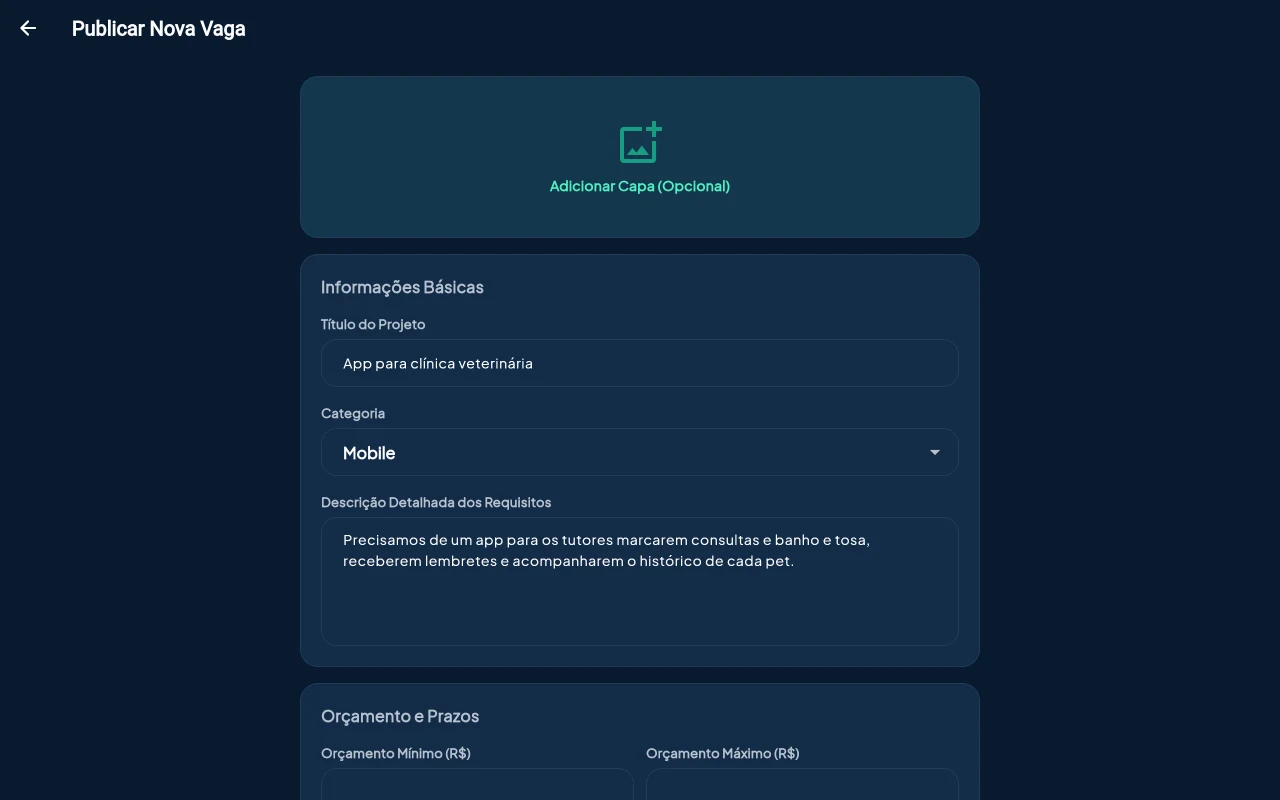
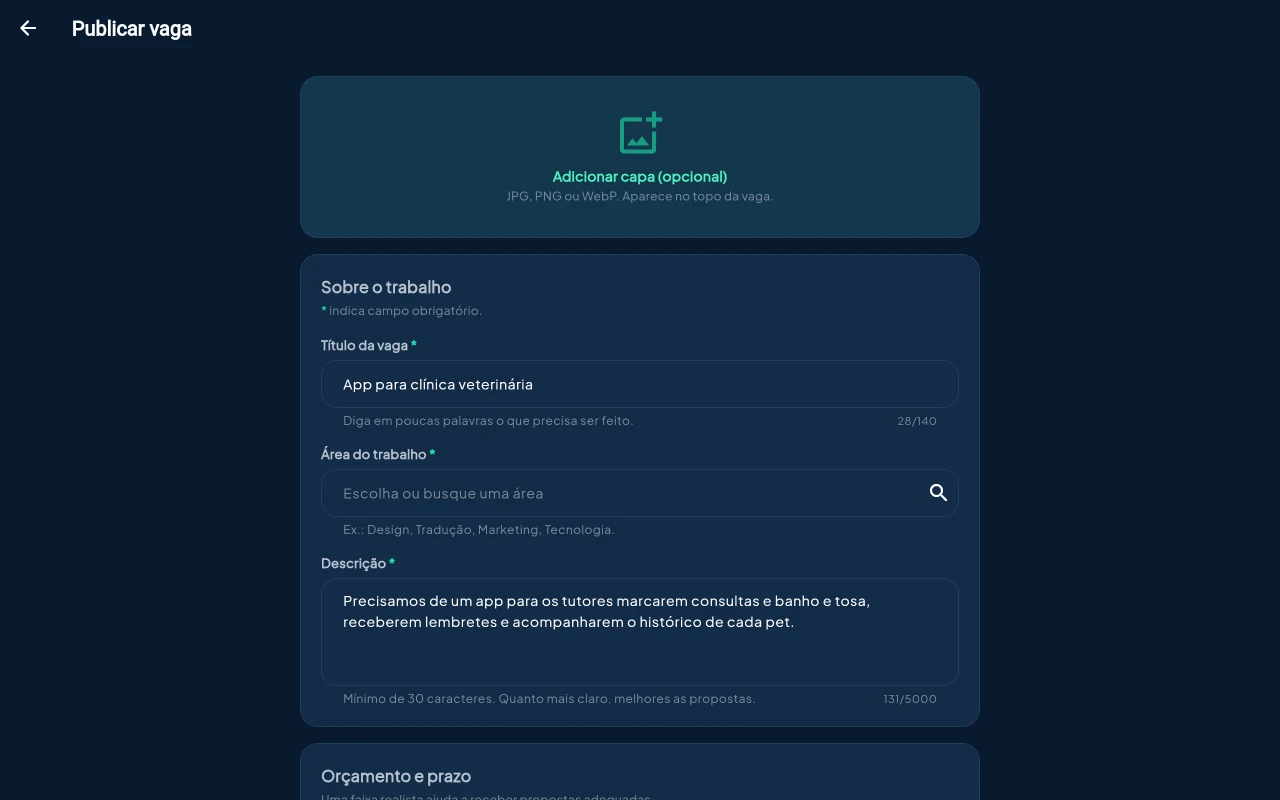
chore(release): prepare a versão 1.0.5 e atualize os prints da homepage
Prints de publicar vaga e enviar proposta voltam a sair preenchidos. O site passa a mostrar a versão de cada arquivo pelo nome, já que Android e Windows podem estar em versões diferentes na mesma release.

diff --git a/site/assets/js/site.js b/site/assets/js/site.js
@@ -447,13 +447,15 @@ async function setupDownloads() {
   } catch {
     return; // Mantém os links para a página de versões (sempre válidos).
   }
-  const version = release.tag.replace(/^v/, '');
+  // A versão de cada arquivo vem do nome (trabalhei-1.0.5.apk): Android e Windows
+  // podem estar em versões diferentes na mesma release.
+  const versionOf = (asset) => asset.name.match(/(\d+\.\d+\.\d+)/)?.[1] ?? release.tag.replace(/^v/, '');
   const find = (re) => release.assets.find((a) => re.test(a.name));
 
   const apk = find(/\.apk$/i);
   if (apk) {
     setHref('[data-download="android"]', apk.url);
-    setText('[data-android-version]', version);
+    setText('[data-android-version]', versionOf(apk));
     setText('[data-android-size]', formatSize(apk.size));
   }
 
@@ -461,7 +463,7 @@ async function setupDownloads() {
   const zip = find(/windows.*\.zip$/i);
   if (exe || zip) {
     setHref('[data-download="windows"]', (exe ?? zip).url);
-    setText('[data-windows-version]', version);
+    setText('[data-windows-version]', versionOf(exe ?? zip));
     setText('[data-windows-size]', formatSize((exe ?? zip).size));
   }
   if (zip) setHref('[data-download="windows-zip"]', zip.url);
